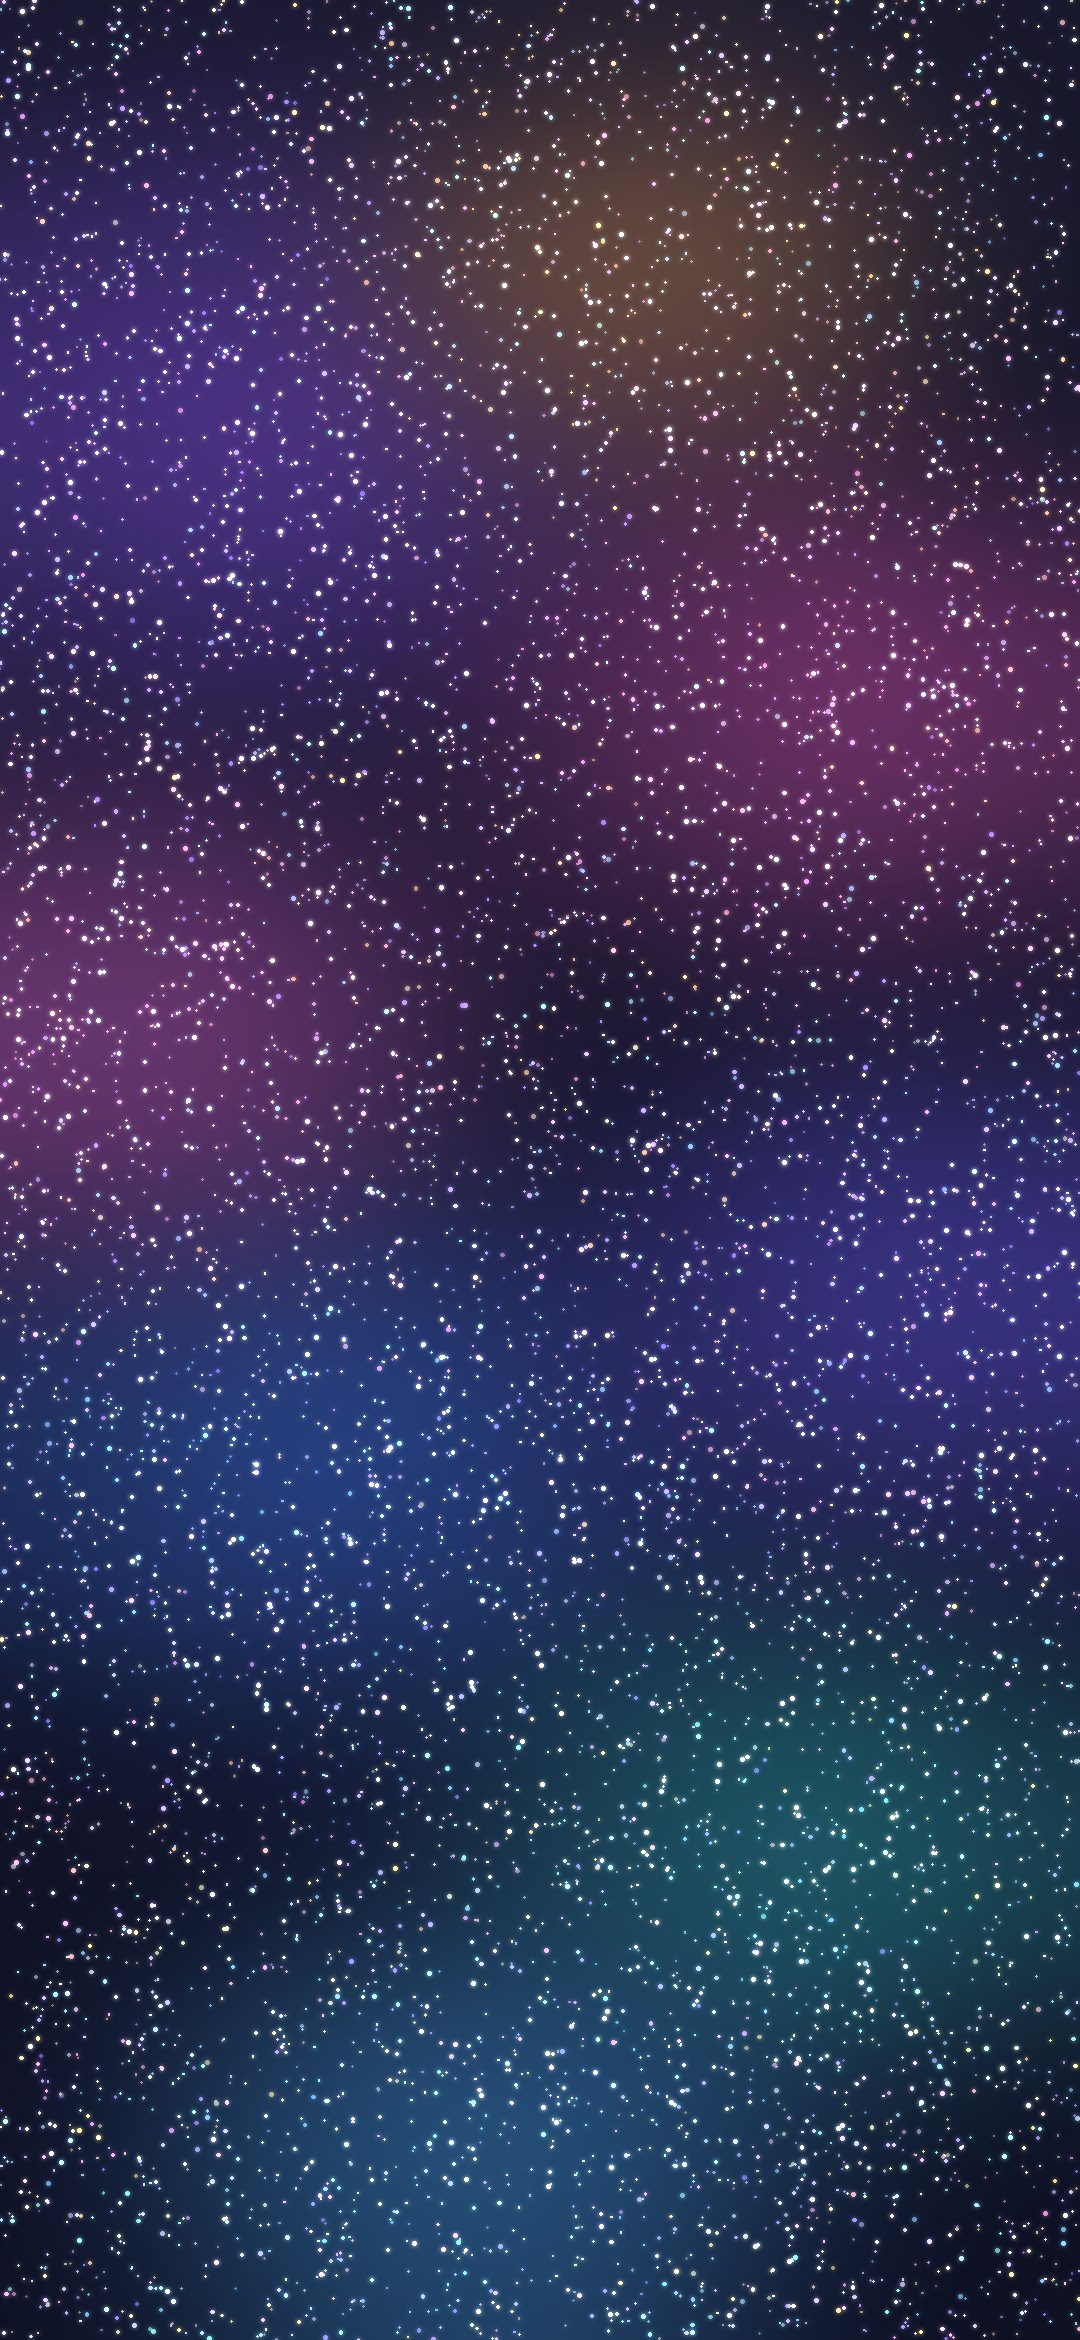
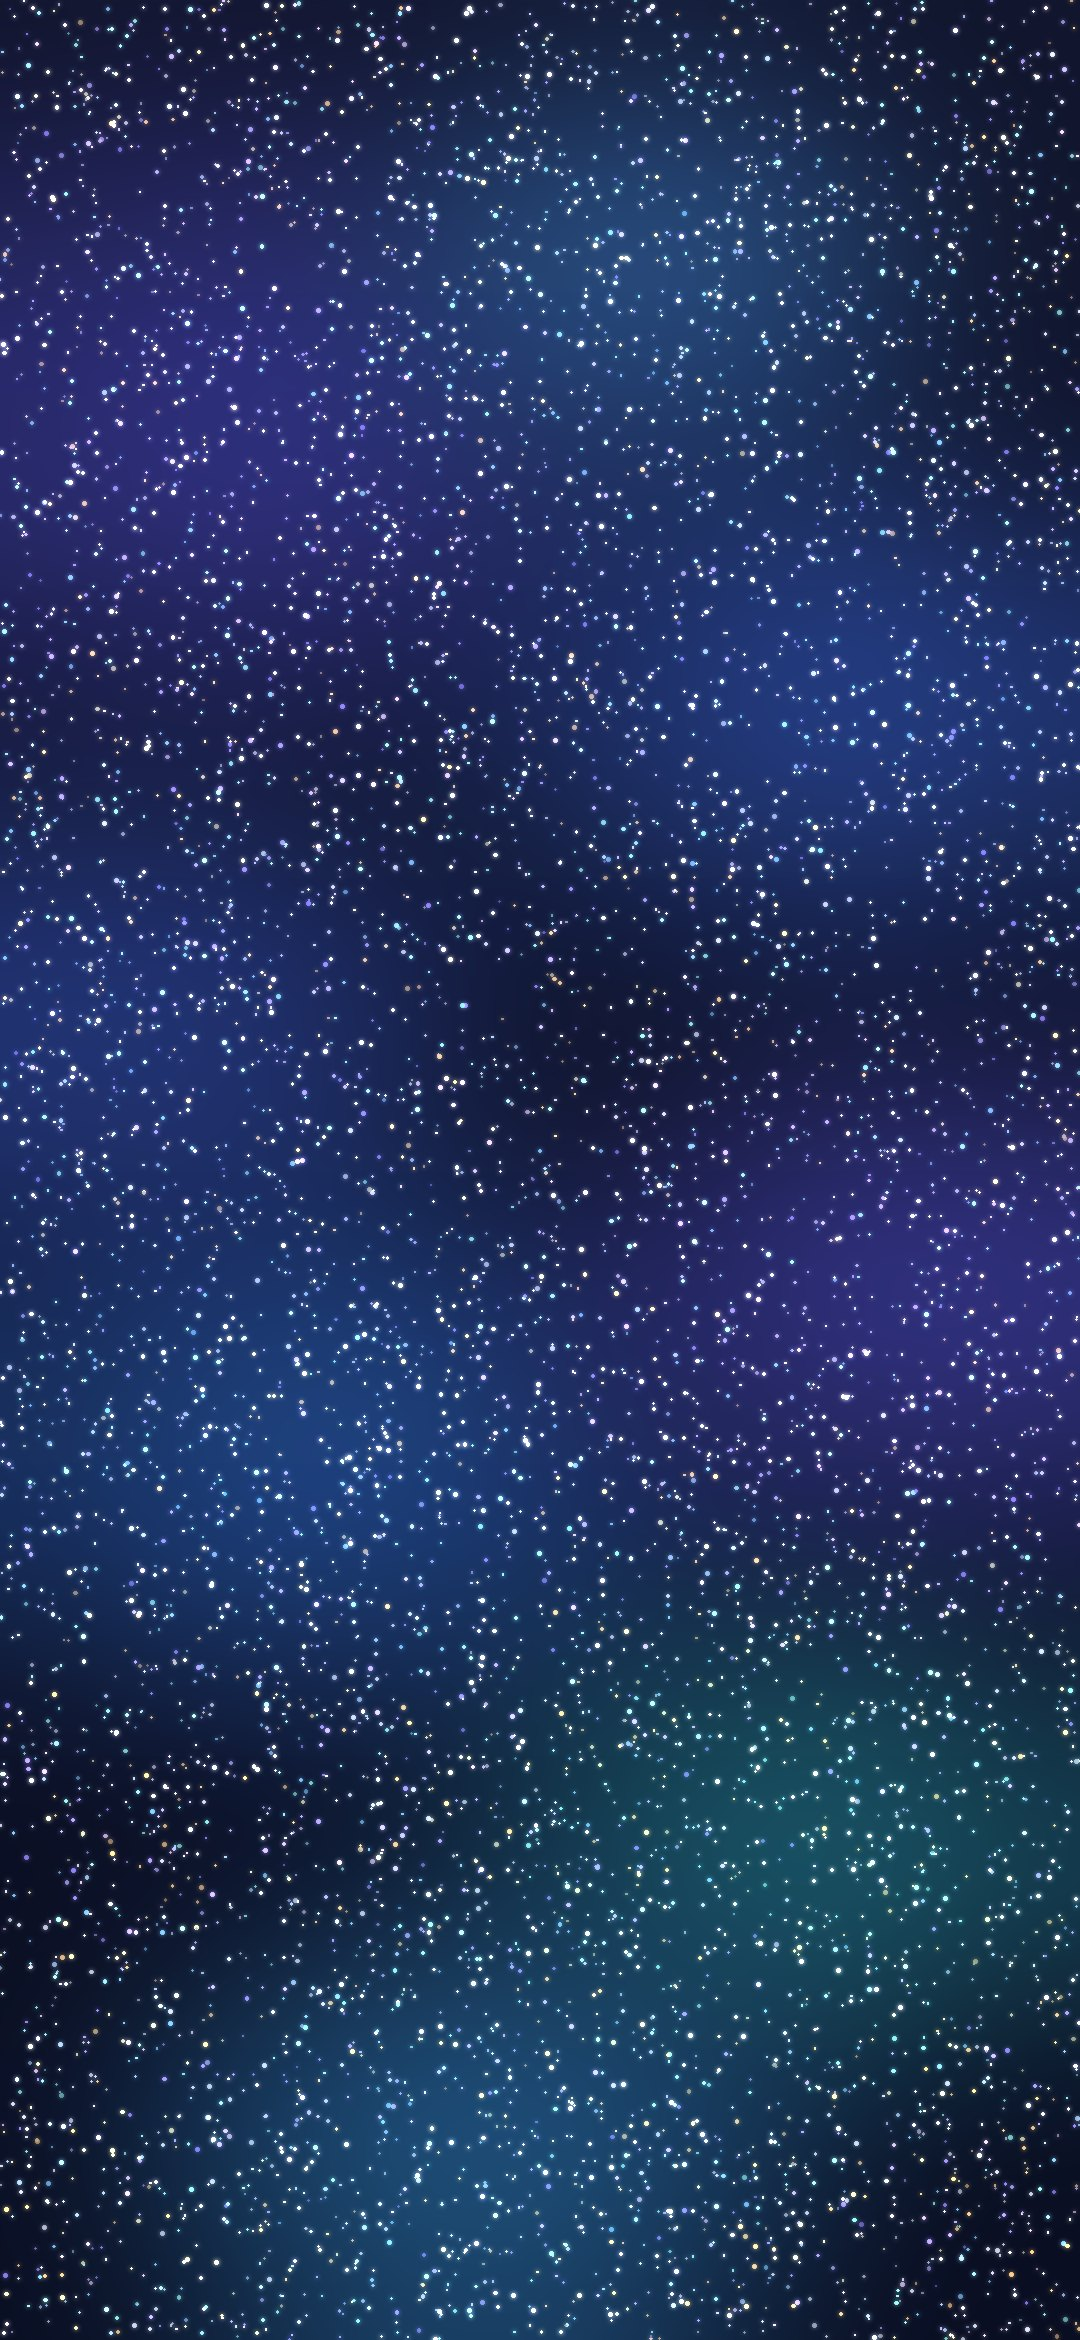
두더지팡: 피버 전환 때 홈 버튼도 게임판과 함께 이동, 우주 배경 성운 파란 계열로(분홍 제거), 홈 그림판 칸 구분(안쪽 음영+네온선) (v734)

diff --git a/mole/js/game.js b/mole/js/game.js
@@ -2260,13 +2260,15 @@
     // 3D 회전 버그 격리용) 자식이 박스 밖으로 나가면 잘린다 — 컨테이너인 .dialpad 자체를 옮긴다.
     const dialpad = document.querySelector('.dialpad');
     const hammerLayer = document.getElementById('mole-hammer-layer');
+    // 게임판 좌상단 홈 버튼도 게임판과 같이 이동(사용자 지정 v734 — 게임판만 내려가고 버튼은 남아 있었음)
+    const homeBtn = document.getElementById('btn-back-to-hub');
     if (!board || !bar || !dialpad) return;
     const boardRect = board.getBoundingClientRect();
     const barRect = bar.getBoundingClientRect();
     const delta = barRect.top - boardRect.top; // 보드가 버튼보드 자리로 가려면 +delta 만큼 아래로
     const ease = 'cubic-bezier(.4, 0, .2, 1)';
     board.style.transition = `top ${ms / 1000}s ${ease}`;
-    [dialpad, hammerLayer].forEach((el) => { if (el) el.style.transition = `transform ${ms / 1000}s ${ease}`; });
+    [dialpad, hammerLayer, homeBtn].forEach((el) => { if (el) el.style.transition = `transform ${ms / 1000}s ${ease}`; });
     // 피버타임 나이트 배경/구멍(사용자 지정) — 보드가 버튼보드 자리로 슬라이딩을 시작하는
     // 순간부터 나이트, 복귀 슬라이딩 시작 순간부터 라운드 시즌으로.
     board.classList.toggle('mole-board--night', toSwapped);
@@ -2274,9 +2276,10 @@
     board.style.top = toSwapped ? `${delta}px` : '0';
     dialpad.style.transform = toSwapped ? `translateY(${-delta}px)` : '';
     if (hammerLayer) hammerLayer.style.transform = toSwapped ? `translateX(-50%) translateY(${delta}px)` : 'translateX(-50%)';
+    if (homeBtn) homeBtn.style.transform = toSwapped ? `translateY(${delta}px)` : '';
     setTimeout(() => {
       board.style.transition = '';
-      [dialpad, hammerLayer].forEach((el) => { if (el) el.style.transition = ''; });
+      [dialpad, hammerLayer, homeBtn].forEach((el) => { if (el) el.style.transition = ''; });
     }, ms + 50);
     boardSwapped = toSwapped;
   }

diff --git a/mole/style.css b/mole/style.css
@@ -151,6 +151,9 @@ body { background: var(--lm-page); }
   to   { transform: translateY(-500%); }
 }
 .hg-cell { position: relative; overflow: hidden; }
+/* 칸 구분(사용자 선택 샘플 4번: 안쪽 음영 + 은은한 네온선, v734) — 칸 사이는 띄우지 않고 경계만 살림 */
+.hg-cell::before { content: ''; position: absolute; inset: 0; z-index: 1; pointer-events: none;
+  box-shadow: inset 0 0 0 1px rgba(150, 225, 255, 0.9), inset 0 0 7px rgba(120, 200, 255, 0.55), inset 0 0 18px 3px rgba(0, 0, 0, 0.5); }
 .hg-cell img {
   /* 펄스로 scale(0.98)까지 줄어들어도 칸보다 항상 커서 배경이 비치지 않게 여유분(4%) 확보 */
   position: absolute; inset: -2%; width: 104%; height: 104%;
@@ -305,7 +308,7 @@ body { background: var(--lm-page); }
   min-height: 0;
   overflow: hidden;
   /* 보드 둘레 0.3cm 여백 = 우주 배경(사용자 지정). 전체는 정지 그림 한 장, 테두리 띠(#gs-edge)에서만 별이 반짝이며 흐른다. */
-  background: #05060d url('assets/space-bg.jpg') center / cover no-repeat; /* 별·성운을 한 장으로 구운 정지 그림(가벼움) */
+  background: #05060d url('assets/space-bg.jpg?v=734') center / cover no-repeat; /* 별·성운을 한 장으로 구운 정지 그림(가벼움) */
   isolation: isolate;
   /* 전체화면 레이아웃(사용자 지정 A안, 목적: 화면 최대한 크게) — 사방 0.3cm 여백 안을 게임보드·경첩(14px)·
      버튼보드가 꽉 채운다. 두 보드는 같은 크기의 직사각형: 가로 --sq, 세로 --sqh(폰 비율 따라 다름).

diff --git a/mole/index.html b/mole/index.html
@@ -563,7 +563,7 @@
       <div id="lane-button-bar">
         <!-- 배포 버전 표식(스크린샷으로 어느 버전인지 확인용) — 화면 좌하단에 두면 다른 UI에
              가려 잘 안 보인다는 사용자 지적으로, 하트 아이콘(다이얼패드 1번 칸) 바로 위로 이동. -->
-        <div id="build-tag" aria-hidden="true">v733</div>
+        <div id="build-tag" aria-hidden="true">v734</div>
         <!-- 피버타임(터치캐치 보너스타임) 전광판 — 버튼보드 자리를 통째로 덮는 오버레이,
              평소엔 hidden, 피버 중에만 콤보/잔여시간 표시(사용자 지정: "전광판처럼"). -->
         <div id="fever-scoreboard" class="fever-scoreboard" hidden>
@@ -735,7 +735,7 @@
       } else {
         // ?v= 로 매 배포마다 URL을 바꿔서 GitHub Pages의 sw.js 캐시(max-age=600)를 무조건 우회 —
         // 안 그러면 배포 직후에도 최대 10분간 옛 서비스워커가 안 갈리는 경우가 있었음(사용자 보고).
-        navigator.serviceWorker.register('sw.js?v=733').catch(function () {});
+        navigator.serviceWorker.register('sw.js?v=734').catch(function () {});
       }
     });
   }

diff --git a/mole/sw.js b/mole/sw.js
@@ -3,7 +3,7 @@
 // 폴백 전용으로만 갱신한다. (예전엔 stale-while-revalidate라 배포해도 "다음 실행"에야
 // 반영돼 사용자 체감 대기가 길었음 — 온라인=항상 최신, 오프라인=마지막 캐시로 변경.)
 // SHELL 목록 자체가 바뀔 때만 CACHE 를 올린다.
-const CACHE = 'mole-game-v733';
+const CACHE = 'mole-game-v734';
 
 // 화면별 BGM(audio/bgm-*.mp3)은 v275 부터 SHELL 에 포함 — 기본 켜짐(v272)이라 항상 필요하고,
 // 캐시가 안 돼 있으면 오프라인/느린망에서 재생 실패했음.
